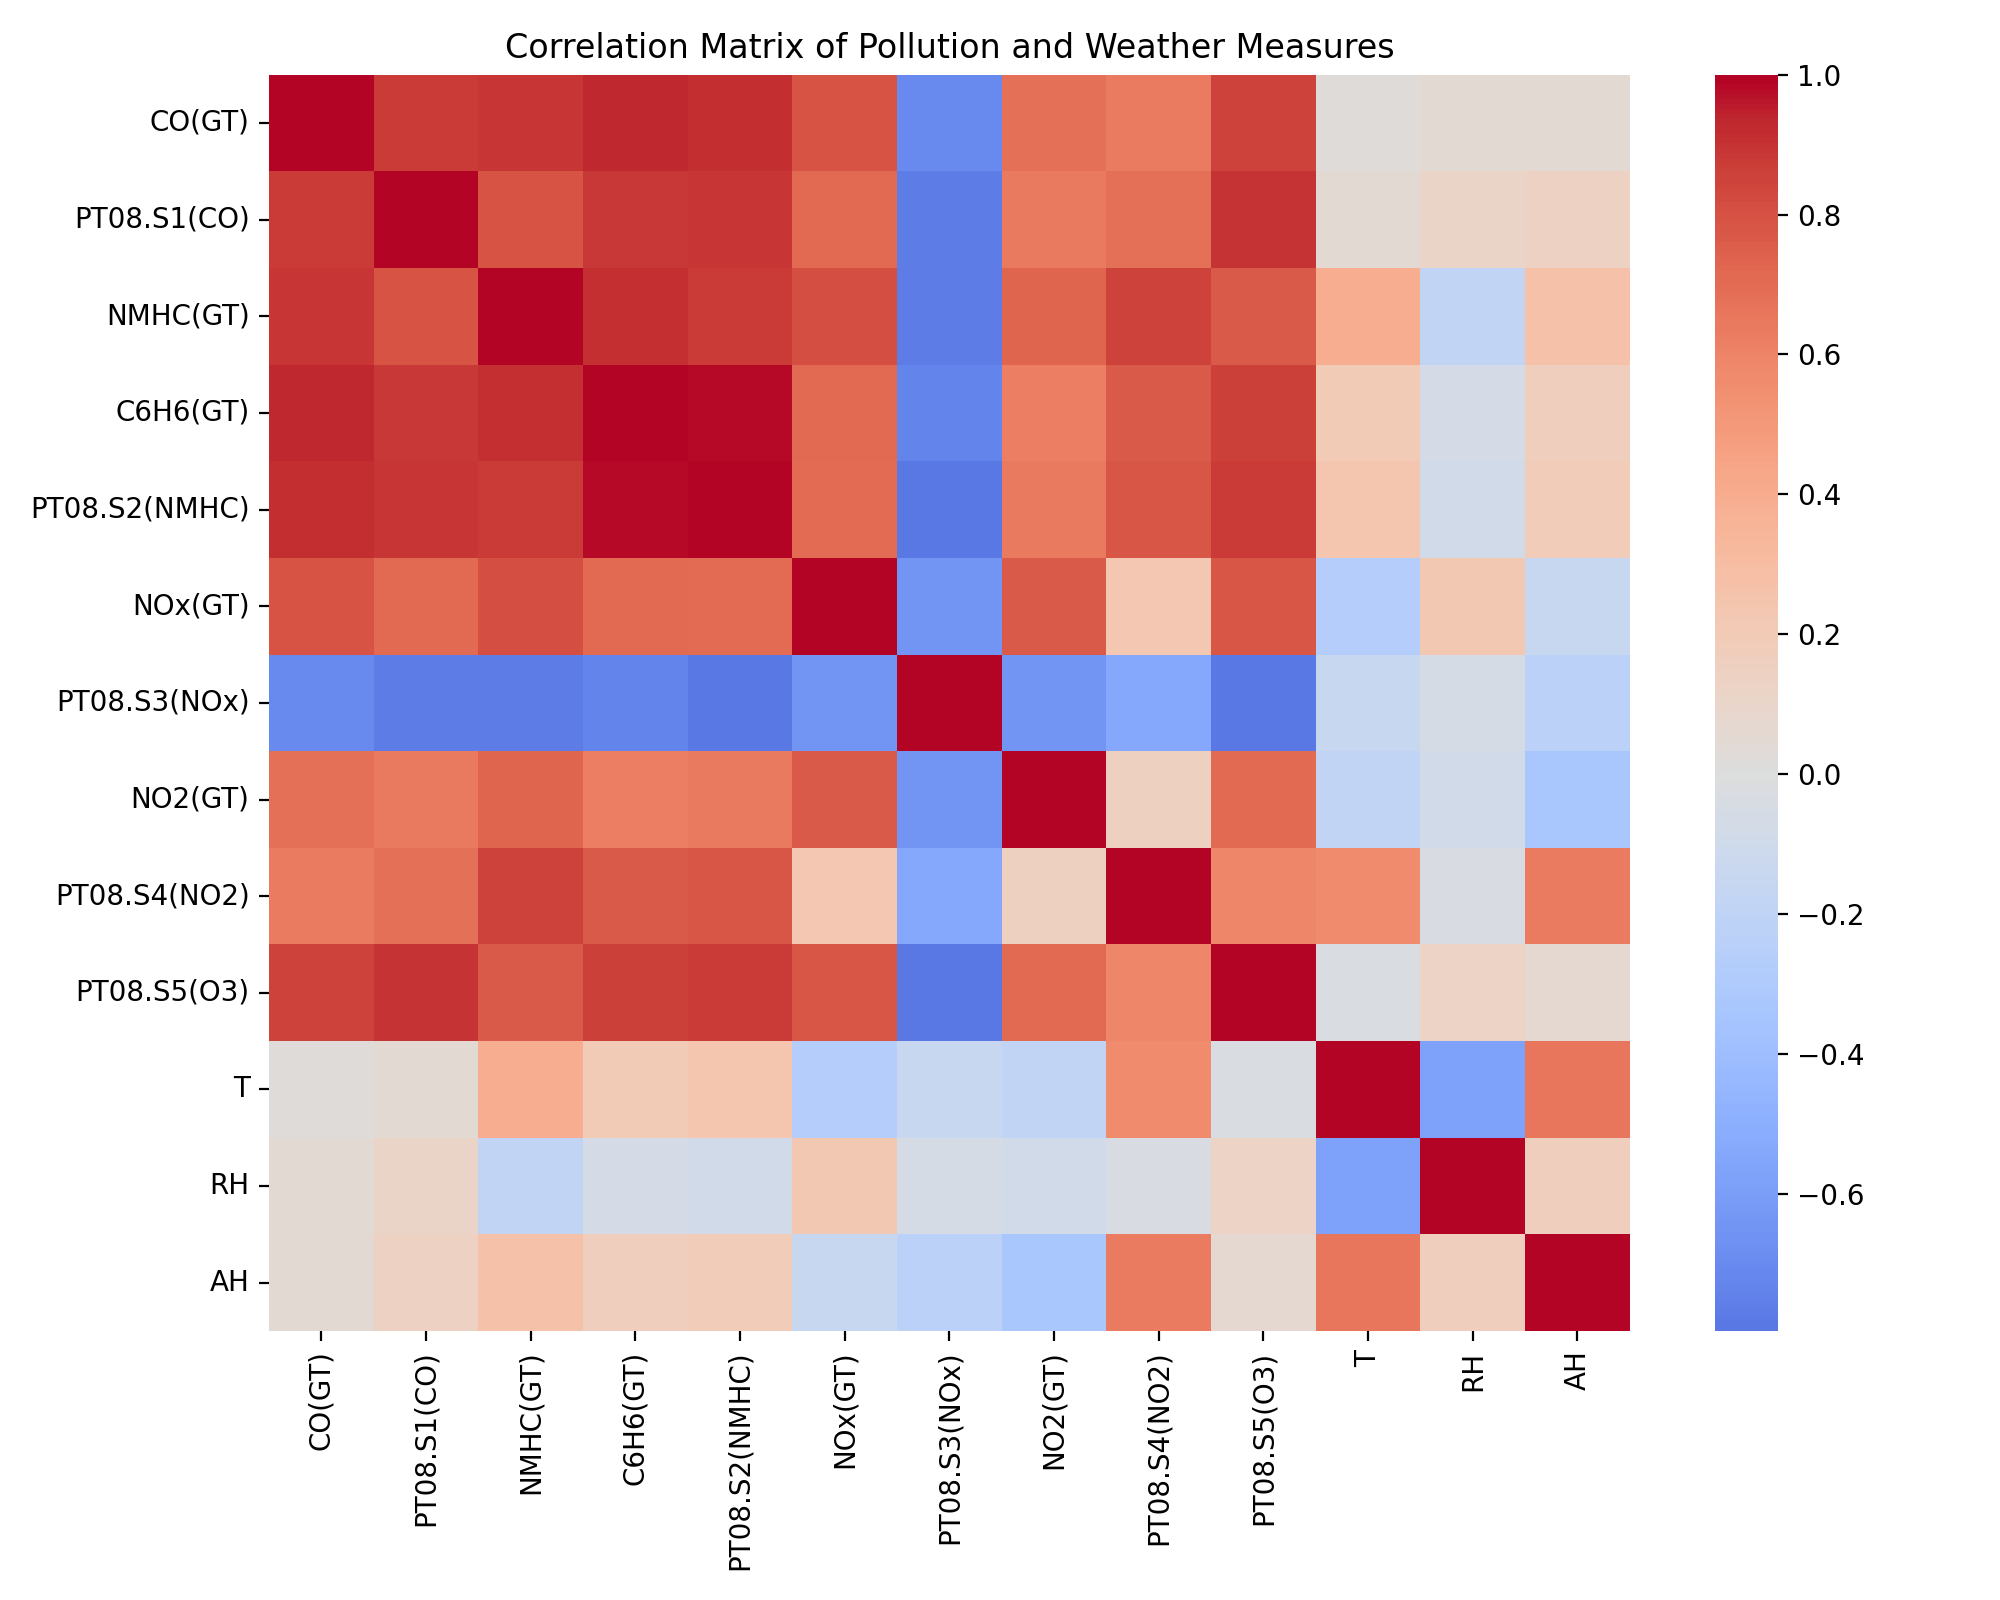
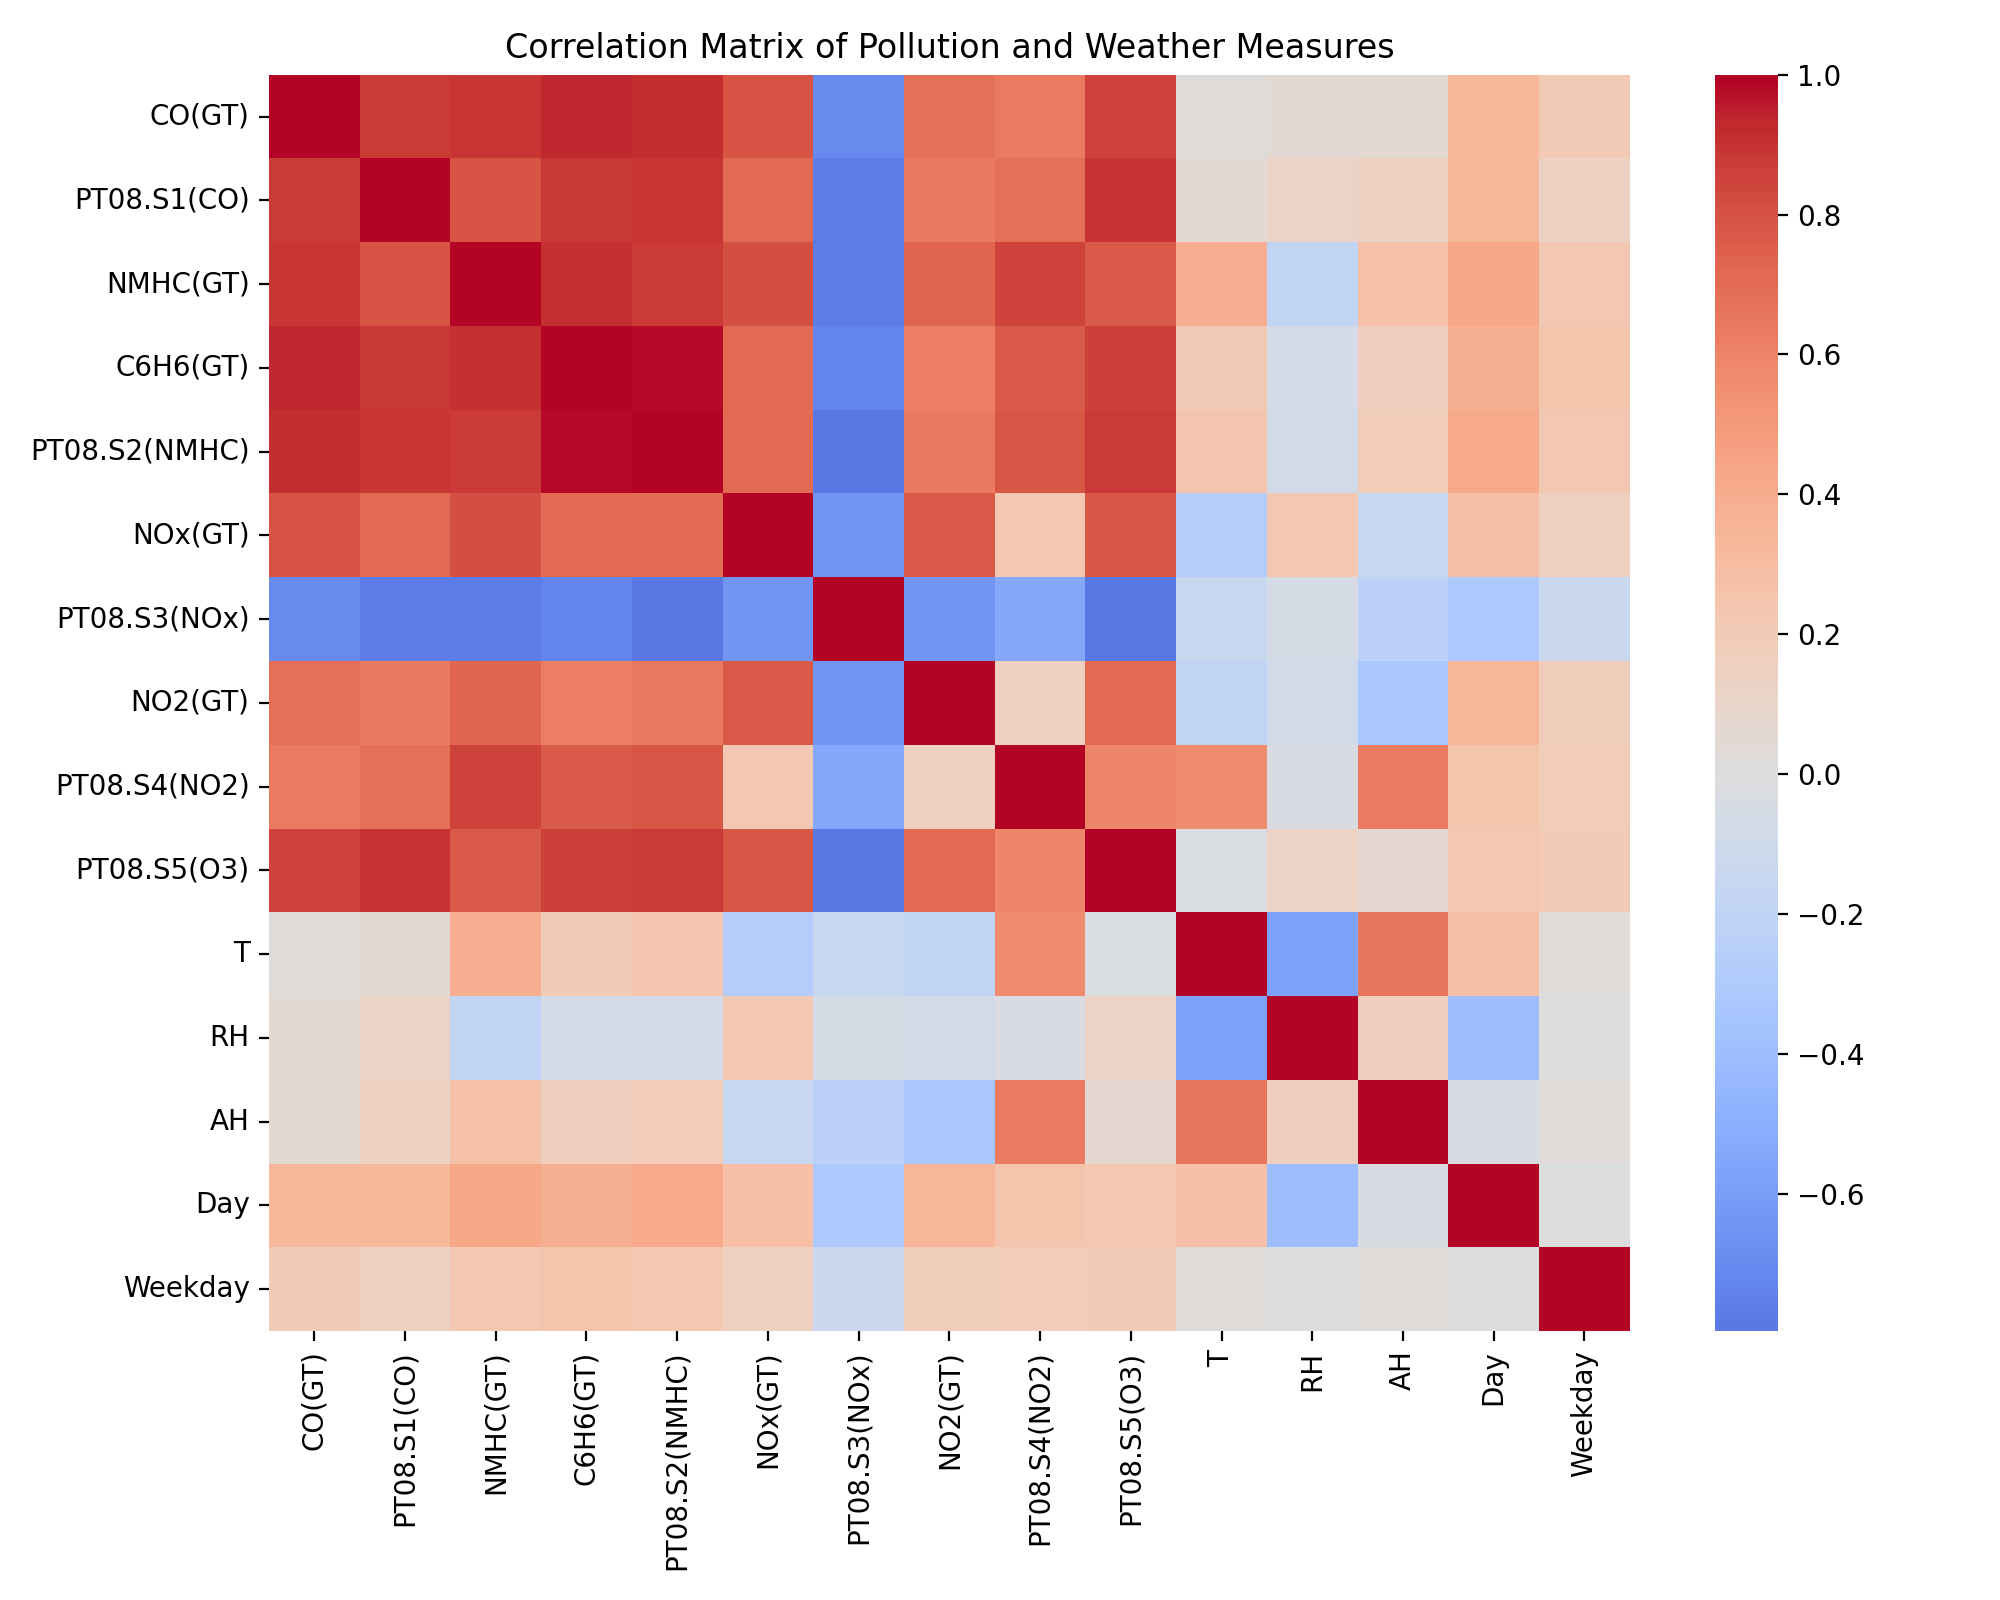
linear regression

diff --git a/scripts/linear_reg.py b/scripts/linear_reg.py
@@ -1,91 +1,99 @@
-import argparse
 import pandas as pd
 import numpy as np
-import matplotlib.pyplot as plt
-import seaborn as sns
-
+import os
 from sklearn.linear_model import LinearRegression
 from sklearn.model_selection import train_test_split
-from sklearn.metrics import mean_squared_error, mean_absolute_error, r2_score
+from sklearn.metrics import mean_squared_error, r2_score
+from eda import df, measurement_cols
 
-from eda import df, measurement_cols  # cleaned dataset and column list from eda
 
 
-def train_linear(df, target, features=None, test_size=0.2, random_state=42):
-    # select feature columns; by default use only numeric measurements and drop
-    # anything that can't be fed to LinearRegression (strings, categories, etc.)
-    if features is None:
-        numeric_cols = df.select_dtypes(include=[np.number]).columns.tolist()
-        features = [c for c in numeric_cols if c not in [target]]
-    else:
-        # ensure provided features are numeric and not the target
-        bad = [c for c in features if c == target or
-               not pd.api.types.is_numeric_dtype(df[c])]
-        if bad:
-            raise ValueError(f"Invalid feature columns (must be numeric and not the target): {bad}")
+def run_ols_for_pollutants(df: pd.DataFrame, measurement_cols: list[str], output_dir: str) -> pd.DataFrame:
+    results = []
+    features = ["Day", "Weekday"]
 
-    data = df[features + [target]].dropna()
-    X = data[features]
-    y = data[target]
+    for target in measurement_cols:
+        if target in ["Date", "Time", "Datetime", "hour", "DayNight", "WeekdayNum", "WeekdayWeekend"]:
+            continue
+        # ignore non-numeric columns or those with insufficient data
+        if not np.issubdtype(df[target].dtype, np.number):
+            continue
+        df_sub = df[[target, "Day", "Weekday"]].dropna()
+        if df_sub.shape[0] < 50:
+            continue
 
-    X_train, X_test, y_train, y_test = train_test_split(
-        X, y, test_size=test_size, random_state=random_state
-    )
+        X = df_sub[features]
+        y = df_sub[target]
+        model = LinearRegression(fit_intercept=True)
+        model.fit(X, y)
+        y_pred = model.predict(X)
 
-    model = LinearRegression()
-    model.fit(X_train, y_train)
-    preds = model.predict(X_test)
+        results.append({
+            "target": target,
+            "n": int(df_sub.shape[0]),
+            "r_squared": float(r2_score(y, y_pred)),
+            "intercept": float(model.intercept_),
+            "coef_day": float(model.coef_[0]),
+            "coef_weekday": float(model.coef_[1]),
+        })
+
+    out = pd.DataFrame(results)
+    out = out.sort_values(by="r_squared", ascending=False)
+    os.makedirs(output_dir, exist_ok=True)
+    out.to_csv(os.path.join(output_dir, "linear_reg_day_weekday_results.csv"), index=False)
+    return out
+
+
+def run_predictive_evaluation(df: pd.DataFrame, target: str, output_dir: str) -> dict:
+    features = ["Day", "Weekday"]
+    df_sub = df[[target, "Day", "Weekday"]].dropna()
+    X = df_sub[features]
+    y = df_sub[target]
+    X_train, X_test, y_train, y_test = train_test_split(X, y, test_size=0.2, random_state=42)
+
+    lr = LinearRegression()
+    lr.fit(X_train, y_train)
+    y_pred = lr.predict(X_test)
 
     metrics = {
-        "mse": mean_squared_error(y_test, preds),
-        "mae": mean_absolute_error(y_test, preds),
-        "r2": r2_score(y_test, preds)
+        "target": target,
+        "coef_day": float(lr.coef_[0]),
+        "coef_weekday": float(lr.coef_[1]),
+        "intercept": float(lr.intercept_),
+        "rmse": float(np.sqrt(mean_squared_error(y_test, y_pred))),
+        "r2": float(r2_score(y_test, y_pred)),
     }
-    return model, X_test, y_test, preds, metrics
 
-
+    return metrics
 
 
 def main():
-    parser = argparse.ArgumentParser(
-        description="Train a linear regression model on the AirQualityUCI dataset"
-    )
-    parser.add_argument(
-        "--target", type=str, required=True,
-        help="column name to use as the response variable"
-    )
-    parser.add_argument(
-        "--features", type=str, nargs="+",
-        help="list of feature column names (default = all other measurements)"
-    )
-    parser.add_argument(
-        "--test-size", type=float, default=0.2,
-        help="fraction of data to reserve for testing (default 0.20)"
-    )
+    global df, measurement_cols
 
-    args = parser.parse_args()
+    script_dir = os.path.dirname(os.path.abspath(__file__))
+    # Save outputs relative to repository root (parent of scripts)
+    output_dir = os.path.join(script_dir, "..", "output")
+    output_dir = os.path.abspath(output_dir)
+    print(f"Using output directory: {output_dir}")
 
-    if args.target not in measurement_cols:
-        raise ValueError(
-            f"Target must be one of the measurement columns: {measurement_cols}"
-        )
+    ols_results = run_ols_for_pollutants(df, measurement_cols, output_dir)
+    summary_path = os.path.join(output_dir, "linear_reg_day_weekday_results.csv")
+    print(f"Linear regression summary saved to {summary_path}")
 
-    if args.features is not None:
-        for feat in args.features:
-            if feat not in measurement_cols or feat == args.target:
-                raise ValueError(f"Invalid feature column: {feat}")
+    print("\nDay/Night and Weekday/Weekend regression coefficients by pollutant:")
+    display_cols = ["target", "n", "r_squared", "intercept", "coef_day", "coef_weekday"]
+    print(ols_results[display_cols].head(15).to_string(index=False))
 
-    model, X_test, y_test, preds, metrics = train_linear(
-        df, args.target, features=args.features, test_size=args.test_size
-    )
+    top_targets = ols_results.sort_values(by="r_squared", ascending=False).head(3)["target"].tolist()
+    eval_metrics = []
+    for t in top_targets:
+        m = run_predictive_evaluation(df, t, output_dir)
+        eval_metrics.append(m)
 
-    print("Model coefficients:", model.coef_)
-    print("Intercept:", model.intercept_)
-    print("Evaluation metrics:")
-    for k, v in metrics.items():
-        print(f"  {k}: {v:.4f}")
-
+    eval_df = pd.DataFrame(eval_metrics)
+    eval_df.to_csv(os.path.join(output_dir, "linear_regression_predictive_evaluation.csv"), index=False)
+    print("\nPredictive evaluation saved to output/linear_regression_predictive_evaluation.csv")
+    print(eval_df.to_string(index=False))
 
 if __name__ == "__main__":
     main()
-

diff --git a/scripts/eda.py b/scripts/eda.py
@@ -40,6 +40,8 @@ plt.close()
 
 df["hour"] = df["Datetime"].dt.hour
 df["DayNight"] = np.where(df["hour"].between(8, 19), "Day", "Night")
+# numeric day/night indicator for correlation (1=day, 0=night)
+df["Day"] = (df["DayNight"] == "Day").astype(int)
 
 #Figure 2
 means_daynight = df.groupby("DayNight")[measurement_cols].mean()
@@ -67,8 +69,8 @@ plt.close()
 
 df["WeekdayNum"] = df["Datetime"].dt.weekday
 df["DayType"] = np.where(df["WeekdayNum"] >= 5, "Weekend", "Weekday")
-
-#Figure 3
+# numeric weekday/weekend indicator for correlation (1=weekday, 0=weekend)
+df["Weekday"] = (df["DayType"] == "Weekday").astype(int)
 means_daytype = df.groupby("DayType")[measurement_cols].mean()
 stds_daytype = df.groupby("DayType")[measurement_cols].std()
 
@@ -102,7 +104,8 @@ plt.savefig("output/figure4_volatility.png", dpi=200)
 plt.close()
 
 #Figure 5
-corr = df[measurement_cols].corr()
+# include binary indicators alongside the original measurements for correlation
+corr = df[measurement_cols + ["Day", "Weekday"]].corr()
 
 plt.figure(figsize=(10, 8))
 sns.heatmap(corr, annot=False, cmap="coolwarm", center=0)
